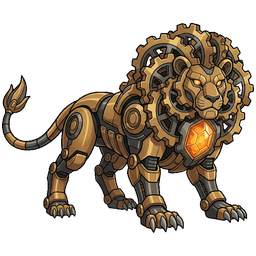
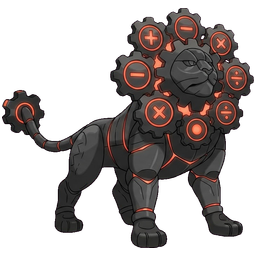
おためし（学級コードなし）でもバトルできる・記録は送らない・セーブは別／伝説2体の絵を差し替え
- おためし: スタミナを使わずに バトルできる（町は学級と同じ3町）。学習の記録はサーバに送らない
  （kit は名乗っていない端末の記録も送り、あとで名乗ったときに その子の記録へ まとめるため、送らないようにした）。
- セーブを学級と おためしで分けた（services/saveProfile.ts）。学級コードを入れた・消したら入れかえて読みなおす。
  おためしの進み具合は学級に引きつがない（レベルの上限・スタミナの すりぬけ を防ぐ）。
- kit の右下の「がっきゅうコードを 入れる」は出さない。おためしで バトルの「わからない」に重なって押せなかった。
  入口は はじめの画面の がっきゅうコードの欄。
- 伝説 ムゲンドラ（∞の しっぽの 夜空色の龍）・カラクリオン（＋−×÷の歯車の たてがみ）の絵を、先生が用意した絵に差し替え。
  図鑑の説明・出現の文・モチーフも絵に合わせた。
- 開発中だけの __advOverlay・__advState.npcs（テストで ショップを開く・祠の そばに ワープする）。

Claude-Session: https://claude.ai/code/session_01Y33WHLsT3ZQzUcHxGe7Aus

diff --git a/services/saveProfile.ts b/services/saveProfile.ts
@@ -1,0 +1,71 @@
+/**
+ * saveProfile.ts — 学級コードを入れているとき（学級）と、入れていないとき（おためし）で セーブを分ける。
+ *
+ * 2026-10-24 先生と決めた:
+ *   ・おためしでも バトルできる。記録は データベースに 残らない。
+ *   ・おためしで遊んだ進み具合（つかまえたモンスター・レベル・MP・1問ごとの記録）は、学級コードを入れても引きつがない
+ *     （おためしは レベルの上限も スタミナも ないので、引きつぐと クラス対戦で不公平になる）。
+ *
+ * しくみ: セーブの中身（bm_・battleMath・fb_ で はじまる localStorage）を、いま使っていない側の分だけ
+ * ひとつにまとめて しまっておく（sanmon_profile_class / sanmon_profile_trial）。学級コードを入れた・消したら入れかえて、
+ * 画面を読みなおす。1問ごとの記録（fb_problem_logs_v1）も入れかわるので、おためしの記録が あとで学級の記録として送られることはない。
+ *
+ * ストア（zustand）は読みこんだ時点で localStorage を読むので、index.tsx で いちばん先に読みこむこと。
+ */
+import { getStudent, subscribeStudent } from 'learning-app-kit/sync';
+
+export type SaveProfile = 'class' | 'trial';
+
+const ACTIVE_KEY = 'sanmon_active_profile';
+const stashKey = (p: SaveProfile) => `sanmon_profile_${p}`;
+/** 入れかえる中身（services/portal.ts の セーブの対象と同じ＋1問ごとの記録・送った時刻） */
+const isProfileKey = (k: string) => /^bm_|^battleMath|^fb_/.test(k) || k === 'sanmon_portal_saved_at';
+
+export const profileFor = (hasStudent: boolean): SaveProfile => (hasStudent ? 'class' : 'trial');
+
+export function activeProfile(): SaveProfile {
+  try { return localStorage.getItem(ACTIVE_KEY) === 'trial' ? 'trial' : 'class'; } catch { return 'class'; }
+}
+
+/**
+ * want の セーブを使う形にする。入れかえたら true。
+ * はじめて動くとき（ACTIVE_KEY が無い）は、いま端末にある中身を want のものとみなして、何も動かさない。
+ * しまう途中で書けなかったら（容量いっぱい など）、何も消さずに やめる（記録を なくさないため）。
+ */
+export function ensureProfile(want: SaveProfile): boolean {
+  try {
+    const cur = localStorage.getItem(ACTIVE_KEY);
+    if (cur === null) { localStorage.setItem(ACTIVE_KEY, want); return false; }
+    if (cur === want) return false;
+    const keys: string[] = [];
+    for (let i = 0; i < localStorage.length; i++) {
+      const k = localStorage.key(i);
+      if (k && isProfileKey(k)) keys.push(k);
+    }
+    const mine: Record<string, string> = {};
+    for (const k of keys) mine[k] = localStorage.getItem(k) ?? '';
+    localStorage.setItem(stashKey(cur as SaveProfile), JSON.stringify(mine));
+    for (const k of keys) localStorage.removeItem(k);
+    const raw = localStorage.getItem(stashKey(want));
+    if (raw) {
+      const other = JSON.parse(raw) as Record<string, string>;
+      for (const [k, v] of Object.entries(other)) localStorage.setItem(k, v);
+      localStorage.removeItem(stashKey(want));
+    }
+    localStorage.setItem(ACTIVE_KEY, want);
+    return true;
+  } catch {
+    return false;
+  }
+}
+
+/** おためし中か（学級コードが入っていない） */
+export const isTrial = (): boolean => !getStudent();
+
+// 読みこんだ時点で、いまの名乗りに合わせる（ストアが localStorage を読む前）
+ensureProfile(profileFor(!!getStudent()));
+
+// 学級コードを入れた・消したら、セーブを入れかえて 読みなおす（別の端末の続きは App が サーバから取りこむ）
+subscribeStudent((s) => {
+  if (ensureProfile(profileFor(!!s))) window.location.reload();
+});

diff --git a/data/adventure/legends.ts b/data/adventure/legends.ts
@@ -70,7 +70,7 @@ export const LEGENDS: LegendDef[] = [
     kind: 'legend', type: 'kazu', townId: 'ketaba',
     units: ['大きい数のしくみ', 'がい数'],
     baseHp: 150, baseAtk: 34, level: 45,
-    flavor: '一のつぎに十、十のつぎに百 ―― その果てを見ようとした者の前にだけ現れる、黄金の巨龍。',
+    flavor: '一のつぎに十、十のつぎに百 ―― ∞（むげん）の形の しっぽに、数えきれない 光の点を ならべた 夜空色の巨龍。その果てを見ようとした者の前にだけ現れる。',
     legendText: [
       '―― 石碑に、古い文字が きざまれている。',
       '『数に かぎりは ない。』',
@@ -80,7 +80,7 @@ export const LEGENDS: LegendDef[] = [
     awakenText: [
       '石碑が まばゆく 光った ――',
       'ゴォォォ……!!',
-      '空がさけ、黄金のうろこを持つ 巨大な龍が すがたを あらわした！',
+      '空がさけ、∞の形の しっぽを ひろげた 夜空色の 巨大な龍が すがたを あらわした！',
       'ムゲンドラ「……よくぞ、ここまで 数えた。」',
       'ムゲンドラ「ならば 見せてみよ。おまえの 数える力を！」',
     ],
@@ -90,7 +90,7 @@ export const LEGENDS: LegendDef[] = [
       'ムゲンドラは、あなたに ついてくることに 決めたようだ！',
     ],
     motif:
-      'a big four-legged dragon of black obsidian with glowing golden lava veins, wide leathery wings and flames along its back',
+      'a long, elegant four-legged dragon with a deep navy body and a golden belly, large golden membrane wings, two swept-back horns, and a very long tail looped into an infinity sign, lined with rows of small glowing golden dots',
     shrine: { color: '#f5b942', style: 'monolith' },
   },
   {
@@ -98,7 +98,7 @@ export const LEGENDS: LegendDef[] = [
     kind: 'legend', type: 'keisan', townId: 'ishikiri',
     units: ['わり算の筆算(÷1けた)', 'わり算の筆算(÷2けた)', '計算のきまり'],
     baseHp: 160, baseAtk: 33, level: 45,
-    flavor: '世界じゅうの計算を、たった一頭で回しつづけている鋼の獅子。止まれば すべての数が 狂う。',
+    flavor: '世界じゅうの計算を、たった一頭で回しつづけている鋼の獅子。たてがみの歯車には ＋−×÷ の しるしが きざまれ、止まれば すべての数が 狂う。',
     legendText: [
       '―― 石碑に、古い文字が きざまれている。',
       '『世界の計算は、たった一頭の獣が 回している。』',
@@ -118,7 +118,7 @@ export const LEGENDS: LegendDef[] = [
       'カラクリオンは、あなたに ついてくることに 決めたようだ！',
     ],
     motif:
-      'a giant four-legged mechanical lion of brass and steel, with a mane of interlocking gears and a glowing amber core in its chest',
+      'a giant four-legged mechanical lion of dark iron with glowing orange seams, a mane of large interlocking gears each marked with a plus, minus, times or divide sign, and a gear at the tip of its tail',
     shrine: { color: '#ef6a5a', style: 'pillar' },
   },
   {

diff --git a/components/PortalLoginScreen.tsx b/components/PortalLoginScreen.tsx
@@ -1,7 +1,8 @@
 /**
  * はじめの画面（学級ポータル版）。
  * 名乗りは 学級コード＋出席番号（learning-app-kit の JoinSettingsRow）。氏名・Googleアカウントは使わない。
- * コードを入れなくても れんしゅうは できる。バトル（ぼうけん・デュエル）には スタミナが いるので、コードが いる。
+ * コードを入れなくても（おためし）れんしゅうも バトルも できる。記録は サーバに残らず、セーブも学級とは別（services/saveProfile.ts）。
+ * おためしで開く町は、単元アプリの いらない町だけ（学級と同じ）。スタミナは使わない。
  */
 import React from 'react';
 import { JoinSettingsRow } from 'learning-app-kit/react';
@@ -67,7 +68,8 @@ const PortalLoginScreen: React.FC<Props> = ({ portal, onStart }) => {
         )}
         {!portal.student && (
           <p className="text-[11px] text-gray-500 text-center leading-relaxed">
-            コードを 入れなくても れんしゅうは できるよ。バトルには スタミナが いるので、コードを 入れてね。
+            コードを 入れなくても「おためし」で れんしゅうも バトルも できるよ。
+            ただし きろくは 先生に とどかないし、おためしの セーブは コードを 入れると べつになるよ。
           </p>
         )}
       </div>

diff --git a/index.tsx b/index.tsx
@@ -1,4 +1,6 @@
 import './index.css';
+// 学級／おためし の セーブの入れかえ。ストアが localStorage を読む前に動かすので、App より先に読みこむ
+import './services/saveProfile';
 import React from 'react';
 import ReactDOM from 'react-dom/client';
 import App from './App';
@@ -21,7 +23,9 @@ root.render(
     <ErrorBoundary>
       <App />
     </ErrorBoundary>
-    {/* 学級コードの入力（はじめの1回）と、あとから名乗る入口（右下）。SOLO/DUO の確認もここが出す */}
-    <JoinGate config={PORTAL} />
+    {/* 学級コードの入力（はじめの1回）。SOLO/DUO の確認もここが出す。
+        右下の入口（chip）は出さない：おためしで バトルの「わからない」ボタンに重なって押せなかった。
+        あとから名乗る入口は、はじめの画面の JoinSettingsRow（PortalLoginScreen）にある */}
+    <JoinGate config={PORTAL} chip={false} />
   </React.StrictMode>
 );

diff --git a/components/PortalStatusBar.tsx b/components/PortalStatusBar.tsx
@@ -29,7 +29,10 @@ const PortalStatusBar: React.FC<{ portal: SanmonPortal }> = ({ portal }) => {
               バトル1回で {SANMON_RULES.battleCost} つかう。れんしゅう・ふくしゅう・本番テストは スタミナなしで できるよ。
             </p>
           ) : (
-            <p>がっきゅうコードを 入れると、スタミナと 町が つかえるよ（右下の「がっきゅうコードを 入れる」）。</p>
+            <p>
+              いまは「おためし」。バトルは スタミナなしで できるけど、きろくは 先生に とどかないよ（セーブも べつ）。
+              がっきゅうコードを 入れると、スタミナと 町が つかえるよ（はじめの画面の「がっきゅうコード」から）。
+            </p>
           )}
           <div className="grid grid-cols-2 sm:grid-cols-3 gap-1.5">
             {portal.units.map((u) => (

diff --git a/services/portal.ts b/services/portal.ts
@@ -62,6 +62,10 @@ let timer: ReturnType<typeof setTimeout> | null = null;
 /** まだ送っていない記録を送る（少しまとめてから）。失敗しても次の機会に送り直す */
 export function syncLearningToPortal(wait = 2000): void {
   if (!isPortalConfigured) return;
+  // おためし（学級コードなし）は送らない。kit は名乗っていない端末の記録も「端末のもの」として送り、
+  // あとで学級コードを入れたときに その子の記録に まとめる（claim_device）ので、送ると「記録が残らない」約束がやぶれる。
+  // おためしの記録は おためしのセーブ（services/saveProfile.ts）の中にだけ残る
+  if (!getStudent()) return;
   if (timer) clearTimeout(timer);
   timer = setTimeout(() => { timer = null; void flushEvents(PUSH, toLogs()); }, wait);
 }

diff --git a/hooks/useSanmonPortal.ts b/hooks/useSanmonPortal.ts
@@ -65,7 +65,8 @@ export function useSanmonPortal(): SanmonPortal {
 
   const spendForBattle = useCallback(async (reason: string) => {
     const s = getStudent();
-    if (!isPortalConfigured || !s) return { ok: false, message: 'バトルには がっきゅうコードが いるよ（右下から 入れてね）' };
+    // おためし（学級コードなし）: スタミナを使わずに バトルできる。記録は サーバに送らず、セーブも学級とは別（services/saveProfile.ts）
+    if (!isPortalConfigured || !s) return { ok: true };
     const eventId = `battle-${Date.now()}-${Math.random().toString(36).slice(2, 8)}`;
     const r = await spendStamina(PORTAL, s.studentId, eventId, SANMON_RULES.battleCost, reason);
     if (r.stamina != null) setStatus((st) => (st ? { ...st, stamina: r.stamina! } : st));

diff --git a/components/adventure/AdventureMode.tsx b/components/adventure/AdventureMode.tsx
@@ -382,6 +382,8 @@ const AdventureMode: React.FC<Props> = ({
       ambush, legendWander, kidnapped: save.kidnapped, badges: save.badges, items: save.items,
       party: save.party, owned: save.owned, townId: save.townId, legends: save.legends,
       wildLegendRecognized: save.wildLegendRecognized,
+      // 祠・テキトウ団などの位置（テストで そばまで ワープするため）
+      npcs: fieldNpcs.map(n => ({ id: n.id, kind: n.kind, x: n.x, z: n.z })),
     });
   });
 

diff --git a/CLAUDE.md b/CLAUDE.md
@@ -31,6 +31,12 @@ npm run build    # 本番ビルド(コミット前に必ず)
 - 記録は `services/portal.ts` が学級ポータルへ送る（1問ごと→learning_event、本番テスト→test_result、セーブデータ→sanmon_save）。
   skill_id はサブトピック名そのもの（kit のカタログ `sanmon` と同じ）。サブトピックを足したら kit のカタログを作り直す。
 - 環境変数: `VITE_SUPABASE_URL` / `VITE_SUPABASE_PUBLISHABLE_KEY`（publishable キーだけ）。
+- **おためし（学級コードなし）でもバトルできる**（2026-10-24 先生と決めた）。スタミナは使わない（`useSanmonPortal` の `spendForBattle`）。
+  町は 学級と同じ（単元アプリの いらない3町だけ）。**記録はサーバに送らない**（`syncLearningToPortal` は名乗っていないと何もしない。
+  kit は名乗っていない端末の記録も送って、あとで名乗ったとき その子に まとめるため）。
+  **セーブは学級と別**（`services/saveProfile.ts`：bm_・battleMath・fb_ の中身を、学級コードを入れた・消したときに入れかえて読みなおす。
+  index.tsx で いちばん先に読みこむ）。おためしの進み具合は 学級に引きつがない（上限・スタミナの すりぬけ を防ぐ）。
+  kit の右下の入口（JoinGate の chip）は出さない（おためしで バトルの「わからない」に重なって押せなかった）。入口は はじめの画面の JoinSettingsRow。
 
 ## モンスターの育ち方（2026-10〜 先生と決めた）
 
